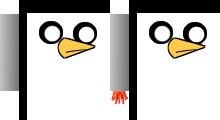
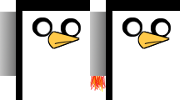
jumping adventure update! No background at the beggining bug fixed, new column speed, smaller hero.

diff --git a/guinea_pig/static/games/jumping_adventure/main.js b/guinea_pig/static/games/jumping_adventure/main.js
@@ -1,14 +1,15 @@
 $(gra);
 function gra () {
 
-var LAYERS_QUANTITY = 8;
+var LAYERS_QUANTITY = 6;
 var COLUMNS_NUM = 6;
 var BACKGROUND_IMG = "background.png";
+var MIN_DIST_COLS = 230;
 
 var COLUMN = {
     width: 84,
     height: 404,
-    speed: 2,
+    init_speed: 2.4,
     img: "column.png"
 };
 
@@ -18,10 +19,10 @@ var GAME = {
 };
 
 var HERO = {
-    width: 110,
-    height: 120,
-    jump: 10,
-    gravity: 0.5,
+    width: 90,
+    height: 100,
+    jump: 12,
+    gravity: 0.7,
     img: "hero.png",
     img_dead: "hero_dead.png"
 };
@@ -37,6 +38,9 @@ var gameArea = {
         this.context = this.canvas.getContext("2d");
         gameDiv.removeChild(gameDiv.firstChild);
         gameDiv.appendChild(this.canvas);
+        
+        gameArea.background = new sprite(GAME.width, GAME.height,
+            BACKGROUND_IMG, 0, 0);
         
         this.wait_for_start = 1;
         this.paused = 1;
@@ -82,15 +86,13 @@ function startGame() {
         0, 0);
     gameArea.dead_player.speed = 0;
 
+    COLUMN.speed = COLUMN.init_speed;
     gameArea.columns_up = new Array();
     gameArea.columns_down = new Array();
     
     for (var i = 0; i < COLUMNS_NUM; i++) {
         create_two_columns(gameArea.columns_up, gameArea.columns_down, i);
     }
-    
-    gameArea.background = new sprite(
-        GAME.width, GAME.height, BACKGROUND_IMG, 0, 0);
     
     drawBackground(gameArea.background);
     drawColumns(gameArea.columns_up, gameArea.columns_down);
@@ -114,9 +116,9 @@ function create_two_columns(columns_up, columns_down, num) {
     var gap;
     
     if (num == 0) x = GAME.width;
-    else x = columns_up[num - 1].x + 200 + Math.random() * 100;
+    else x = columns_up[num - 1].x + MIN_DIST_COLS + Math.random() * 100;
     y_center = GAME.height / 2 - 100 + Math.random() * 200;
-    gap = 2 * HERO.height + Math.random() * 100;
+    gap = 2.5 * HERO.width + Math.random() * 50;
     
     new_up_column = new sprite(
         COLUMN.width, COLUMN.height, img_up,
@@ -154,10 +156,10 @@ function update_two_columns(columns_up, columns_down, num) {
         
         columns_up[num].not_visited = 1;
         prev_num = (num + COLUMNS_NUM- 1) % COLUMNS_NUM;
-        new_x = columns_up[prev_num].x + 150 + Math.random() * 100;
+        new_x = columns_up[prev_num].x + MIN_DIST_COLS + Math.random() * 100;
         
         y_center = GAME.height / 2 - 100 + Math.random() * 200;
-        gap = 2 * HERO.height + Math.random() * 100;
+        gap = 2.5 * HERO.width + Math.random() * 50;
         
         columns_up[num].x = new_x;
         columns_up[num].y = y_center - gap / 2 - COLUMN.height;
@@ -257,6 +259,7 @@ function endGameAnimation(player) {
 function updateGameArea() {
     if (gameArea.menu) {
         gameArea.menu = 0;
+
         drawBackground(gameArea.background);
         gameArea.context.font = "45px LooseySans";
         gameArea.context.fillText("Jumping Adventure!", 20, 100);
@@ -277,6 +280,7 @@ function gameFrame() {
     for (var i = 0; i < COLUMNS_NUM; i++) {
             update_two_columns(gameArea.columns_up, gameArea.columns_down, i);
         }
+    COLUMN.speed += 0.0004;
     updateHero(gameArea.myHero);
     
     drawBackground(gameArea.background);
